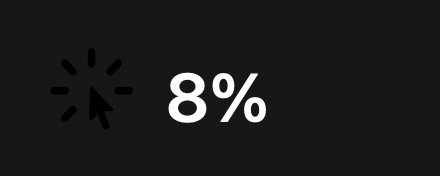
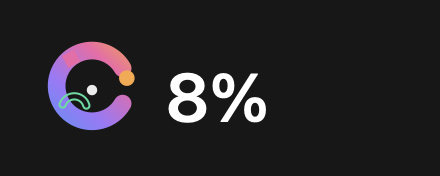
feat(v0.3.0): 抽象派 C 图标 + 设置 toggle + GitHub 描述/CI/Release
- 菜单栏图标: 抽象派风格字母 C(渐变弧+几何点缀) + 用量百分比 (CursorIcon.swift)
- 设置按钮改 toggle: 再点收起(与设置区收起按钮两处入口), 激活态高亮反馈
- GitHub about: 中英双语描述 + topics(swift/macos/menubar/cursor/...)
- 版本维护: VERSION 单源(SemVer), Makefile 注入 Info.plist, make version/package
- CI: .github/workflows/ci.yml (push/PR 构建+plist lint+icns)
- Release: .github/workflows/release.yml (tag v* → zip+dmg → GitHub Release)
- 截图同步: menubar.png 使用新 C 图标; README 更新

Changed region(s): [[0.0886, 0.2273, 0.325, 0.7386]]

diff --git a/Sources/CursorIcon.swift b/Sources/CursorIcon.swift
@@ -1,0 +1,80 @@
+import AppKit
+
+/// 抽象派风格字母 C 图标渲染器（设计空间 100×100，任意尺寸缩放）。
+/// 主形：渐变描边的粗“C”弧（右侧开口）+ 抽象点缀（橙色圆点 / 绿色小弧 / 粉色方块 / 白色圆点）。
+enum CursorIcon {
+
+    static func make(size: CGFloat) -> NSImage {
+        let s = size / 100.0
+        let image = NSImage(size: NSSize(width: size, height: size))
+        image.lockFocus()
+        defer { image.unlockFocus() }
+
+        guard let ctx = NSGraphicsContext.current?.cgContext else { return image }
+        ctx.saveGState()
+        defer { ctx.restoreGState() }
+
+        let center = CGPoint(x: 50 * s, y: 52 * s)
+        let radius = 34 * s
+        let lineWidth = 17 * s
+
+        // ---- 主 C 弧：渐变描边（右侧开口，抽象弧形） ----
+        let arc = CGMutablePath()
+        // 330°(右下) 顺时针扫过 270°(下) 180°(左) 90°(上) 到 30°(右上)，右侧留缺口 → 字母 C
+        arc.addArc(center: center, radius: radius,
+                   startAngle: Self.deg2rad(330), endAngle: Self.deg2rad(30),
+                   clockwise: true)
+        let stroked = arc.copy(strokingWithWidth: lineWidth,
+                               lineCap: .round, lineJoin: .round, miterLimit: 10)
+        ctx.addPath(stroked)
+        ctx.clip()
+
+        let bounds = stroked.boundingBox
+        let colors = [
+            NSColor(calibratedRed: 0.23, green: 0.51, blue: 0.96, alpha: 1).cgColor,   // 蓝
+            NSColor(calibratedRed: 0.55, green: 0.36, blue: 0.98, alpha: 1).cgColor,   // 紫
+            NSColor(calibratedRed: 0.93, green: 0.29, blue: 0.60, alpha: 1).cgColor,   // 粉
+            NSColor(calibratedRed: 0.98, green: 0.59, blue: 0.20, alpha: 1).cgColor,   // 橙
+        ] as CFArray
+        if let gradient = CGGradient(colorsSpace: CGColorSpaceCreateDeviceRGB(),
+                                     colors: colors,
+                                     locations: [0, 0.38, 0.72, 1]) {
+            ctx.drawLinearGradient(gradient,
+                                   start: CGPoint(x: bounds.minX, y: bounds.minY),
+                                   end: CGPoint(x: bounds.maxX, y: bounds.maxY),
+                                   options: [])
+        }
+        ctx.restoreGState()
+
+        // ---- 抽象点缀 ----
+        // 橙色圆点（C 缺口内侧）
+        ctx.setFillColor(NSColor(calibratedRed: 0.98, green: 0.59, blue: 0.20, alpha: 1).cgColor)
+        ctx.fillEllipse(in: CGRect(x: 76 * s, y: 52 * s, width: 15 * s, height: 15 * s))
+
+        // 绿色小弧（左下，向心呼应主弧）
+        let subArc = CGMutablePath()
+        subArc.addArc(center: CGPoint(x: 33 * s, y: 30 * s), radius: 12 * s,
+                      startAngle: Self.deg2rad(15), endAngle: Self.deg2rad(160), clockwise: false)
+        ctx.addPath(subArc.copy(strokingWithWidth: 6 * s, lineCap: .round, lineJoin: .round, miterLimit: 10))
+        ctx.setStrokeColor(NSColor(calibratedRed: 0.20, green: 0.85, blue: 0.55, alpha: 1).cgColor)
+        ctx.strokePath()
+
+        // 粉色旋转方块（左上）
+        ctx.saveGState()
+        ctx.translateBy(x: 30 * s, y: 78 * s)
+        ctx.rotate(by: Self.deg2rad(28))
+        ctx.setFillColor(NSColor(calibratedRed: 0.93, green: 0.29, blue: 0.60, alpha: 1).cgColor)
+        ctx.fill(CGRect(x: -6.5 * s, y: -6.5 * s, width: 13 * s, height: 13 * s))
+        ctx.restoreGState()
+
+        // 白色小圆点（中央偏下）
+        ctx.setFillColor(NSColor.white.withAlphaComponent(0.92).cgColor)
+        ctx.fillEllipse(in: CGRect(x: 45 * s, y: 43 * s, width: 10 * s, height: 10 * s))
+
+        return image
+    }
+
+    private static func deg2rad(_ degrees: CGFloat) -> CGFloat {
+        degrees * .pi / 180
+    }
+}

diff --git a/Sources/Screenshot.swift b/Sources/Screenshot.swift
@@ -115,20 +115,14 @@ enum Screenshot {
         }
     }
 
-    /// 模拟菜单栏条：图标 + 合计百分比
+    /// 模拟菜单栏条：抽象派 C 图标 + 合计百分比
     @MainActor
     private static func renderMenubar(to url: URL, percent: String) -> Bool {
-        var icon = NSImage(systemSymbolName: "cursorarrow.rays", accessibilityDescription: nil)
-        if icon == nil { icon = NSImage(systemSymbolName: "chart.bar.fill", accessibilityDescription: nil) }
-        guard let baseIcon = icon else { return false }
-        let sized = baseIcon.withSymbolConfiguration(
-            NSImage.SymbolConfiguration(pointSize: 30, weight: .medium))!
-
         let img = NSImage(size: NSSize(width: 220, height: 88))
         img.lockFocus()
         NSColor(white: 0.09, alpha: 1).setFill()
         NSRect(x: 0, y: 0, width: 220, height: 88).fill()
-        sized.draw(in: NSRect(x: 22, y: 20, width: 48, height: 48))
+        CursorIcon.make(size: 52).draw(in: NSRect(x: 20, y: 18, width: 52, height: 52))
         let attrs: [NSAttributedString.Key: Any] = [
             .font: NSFont.systemFont(ofSize: 34, weight: .semibold),
             .foregroundColor: NSColor.white,

diff --git a/Sources/AppDelegate.swift b/Sources/AppDelegate.swift
@@ -74,14 +74,10 @@ final class AppDelegate: NSObject, NSApplicationDelegate {
     private func setupStatusItem() {
         let item = NSStatusBar.system.statusItem(withLength: NSStatusItem.variableLength)
         if let button = item.button {
-            var image = NSImage(systemSymbolName: "cursorarrow.rays", accessibilityDescription: "Cursor 用量")
-            if image == nil {
-                image = NSImage(systemSymbolName: "chart.bar.fill", accessibilityDescription: "Cursor 用量")
-            }
-            image?.isTemplate = true
-            let config = NSImage.SymbolConfiguration(pointSize: 14, weight: .medium)
-            image = image?.withSymbolConfiguration(config)
-            button.image = image
+            // 抽象派字母 C + 用量百分比（彩色图标，不设 template 以保留渐变）
+            button.image = CursorIcon.make(size: 17)
+            button.image?.isTemplate = false
+            button.title = ""
             button.action = #selector(togglePanel(_:))
             button.target = self
         }

diff --git a/Sources/UsagePanel.swift b/Sources/UsagePanel.swift
@@ -281,11 +281,12 @@ struct UsagePanelView: View {
             Text(model.lastUpdated.map { "更新于 " + Self.timeText($0) } ?? "未更新")
                 .font(.caption2)
                 .foregroundColor(.secondary)
-            Button(action: { model.openSettings() }) {
-                Image(systemName: "gearshape")
+            Button(action: { model.toggleSettings() }) {
+                Image(systemName: model.showSettings ? "gearshape.fill" : "gearshape")
+                    .foregroundColor(model.showSettings ? .accentColor : .primary)
             }
             .controlSize(.small)
-            .help("Token 设置")
+            .help(model.showSettings ? "收起设置" : "Token 设置")
             Button(action: { NSApplication.shared.terminate(nil) }) {
                 Image(systemName: "power")
             }

diff --git a/Sources/PanelModel.swift b/Sources/PanelModel.swift
@@ -195,6 +195,16 @@ final class PanelModel: ObservableObject {
         log("设置: 展开设置区")
     }
 
+    /// 设置按钮 toggle：展开/收起（与设置区内的收起按钮构成两处收起入口）
+    func toggleSettings() {
+        if showSettings {
+            showSettings = false
+            log("设置: 收起设置区（gear 按钮）")
+        } else {
+            openSettings()
+        }
+    }
+
     func saveManualToken() {
         let t = settingsToken.trimmingCharacters(in: .whitespacesAndNewlines)
         guard !t.isEmpty else {

diff --git a/README.md b/README.md
@@ -25,13 +25,13 @@ Click the menu bar icon to see your current billing-cycle usage at a glance — 
 
 | English | 中文 |
 |---|---|
-| 🟦 **Menu bar resident** — no Dock icon (`LSUIElement`), shows live total usage % next to the icon | 🟦 **菜单栏常驻**——无 Dock 图标，图标旁实时显示合计用量百分比 |
+| 🟦 **Menu bar resident** — abstract-art letter **C** icon + live total usage %, no Dock icon (`LSUIElement`) | 🟦 **菜单栏常驻**——抽象派字母 **C** 图标 + 实时合计用量百分比，无 Dock 图标 |
 | ⚖ **Two pools side by side**: Cursor Models (`autoPercentUsed`) and Other Models (`apiPercentUsed`), each with **exact dollar spend** derived from `GetAggregatedUsageEvents` (verified: sum == `planUsage.totalSpend`) | ⚖ **双池并列展示**：Cursor Models（`autoPercentUsed`）与 Other Models（`apiPercentUsed`），各池**精确美元花费**由 `GetAggregatedUsageEvents` 按模型归属求和（实测合计 == `totalSpend`） |
 | 💰 **Included total** — used / limit / remaining in USD (cents ÷ 100) + combined % | 💰 **合计用量**——已用 / 限额 / 剩余美元金额 + 综合百分比 |
 | 🏆 **Top models by spend** (top 3) | 🏆 **Top 模型**（按花费前 3） |
 | 📅 **Billing cycle** start → end, "resets in N days" | 📅 **计费周期**起止与“N 天后重置” |
 | 🔄 **Auto refresh** — on open, every 60 s while open, every 5 min in background | 🔄 **自动刷新**——打开即拉取、打开期间每 60 s、后台每 5 min |
-| 🔐 **Token settings** — save to **macOS Keychain**, or auto-read Cursor's local login (default), never stored in this repo | 🔐 **Token 设置**——保存到 **macOS 钥匙串**，或自动读取 Cursor 本地登录态（默认），绝不写入仓库 |
+| 🔐 **Token settings** — save to **macOS Keychain**; ⚙ toggles open/close (two collapse entries), or auto-read Cursor's local login (default), never stored in this repo | 🔐 **Token 设置**——保存到 **macOS 钥匙串**；⚙ 可展开/收起（两处收起入口），或自动读取 Cursor 本地登录态（默认），绝不写入仓库 |
 | 🛡 **Zero dependencies** — pure Swift (AppKit + SwiftUI), no Electron, no runtime deps | 🛡 **零依赖**——纯 Swift（AppKit + SwiftUI），无 Electron、无运行时依赖 |
 
 ---
@@ -51,8 +51,10 @@ make selfcheck   # headless check: token + real API + keychain/file stores
 
 | Command · 命令 | What it does · 作用 |
 |---|---|
-| `make build` | Compile `build/CursorUsage` |
+| `make build` | Compile `build/CursorUsage` + generate `Info.plist` from `VERSION` |
+| `make version` | Show current version / build number / tag |
 | `make app` | Bundle `build/CursorUsage.app` (with generated icon) |
+| `make package` | Build **zip + dmg** release artifacts (`build/CursorUsage-<ver>-macOS.*`) |
 | `make selfcheck` | Headless verification with **real** API calls |
 | `make screenshots` | Render product screenshots to `docs/screenshots/` |
 | `make run` | Build & launch via `open` |
@@ -60,6 +62,13 @@ make selfcheck   # headless check: token + real API + keychain/file stores
 
 To quit: click the power button at the panel bottom, or `pkill CursorUsage`.
 退出：点面板底部电源键，或 `pkill CursorUsage`。
+
+### Releases · 版本与发布
+
+- **Version source of truth · 版本单一来源**：`VERSION` file (SemVer) — bump it, CI builds with it.
+- **CI** (`.github/workflows/ci.yml`): builds on every push/PR (macOS runner).
+- **Release** (`.github/workflows/release.yml`): pushing a tag `v*` builds the app, packages **zip + dmg**, and creates a GitHub Release (e.g. `git tag v0.3.0 && git push origin v0.3.0`).
+- Artifacts are **ad-hoc signed** (not notarized); first launch may need right-click → Open. 产物为 ad-hoc 签名，首次打开可能需要右键 → 打开。
 
 ---
 
@@ -111,17 +120,20 @@ Design & architecture → [DESIGN.md](DESIGN.md) · 实现方案见 [DESIGN.md](
 ## Project Structure · 项目结构
 
 ```
-Sources/main.swift        entry: --selfcheck / --screenshot / --icon / --icns / GUI
-Sources/AppDelegate.swift status bar icon + popover + timers
-Sources/CursorAPI.swift   Connect JSON client + Codable models
-Sources/TokenStore.swift  Keychain / 600-perm file / Cursor local (read-only)
-Sources/PanelModel.swift  panel state machine (@MainActor)
-Sources/UsagePanel.swift  SwiftUI panel (two-pool meters + settings)
-Sources/Screenshot.swift  product screenshots + app icon generator
-Sources/SelfCheck.swift   headless verification
-Sources/Info.plist        .app bundle config (LSUIElement)
-Makefile / run.sh         build · test · package · launch
-docs/screenshots/         product screenshots
+Sources/main.swift          entry: --selfcheck / --screenshot / --icon / --icns / GUI
+Sources/AppDelegate.swift   status bar icon + self-positioned panel + timers
+Sources/CursorIcon.swift    abstract-art letter-C status icon renderer
+Sources/CursorAPI.swift     Connect JSON client + Codable models
+Sources/TokenStore.swift    Keychain / 600-perm file / Cursor local (read-only)
+Sources/PanelModel.swift    panel state machine (@MainActor) + pool dollar split
+Sources/UsagePanel.swift    SwiftUI panel (two-pool meters + toggleable settings)
+Sources/Screenshot.swift    product screenshots + app icon generator
+Sources/SelfCheck.swift     headless verification
+Sources/Info.plist.template .app bundle config (version injected from VERSION)
+VERSION                     version source of truth (SemVer)
+.github/workflows/          CI + Release (zip/dmg) workflows
+Makefile / run.sh           build · test · package · launch
+docs/screenshots/           product screenshots
 ```
 
 ## License · 许可

diff --git a/.github/RELEASE_NOTES.md b/.github/RELEASE_NOTES.md
@@ -1,0 +1,24 @@
+# CursorUsage v0.3.0
+
+## What's new · 更新内容
+
+- 🎨 菜单栏图标改为抽象派风格字母 **C** + 实时用量百分比（渐变弧 + 几何点缀）
+- ⚙ 设置按钮改为 **toggle**：再次点击即收起设置（与设置区内收起按钮共两处入口），并带激活态高亮
+- 🔧 修复：面板一直转圈（主队列饥饿 / URLSession 释放 / 次要请求阻塞）
+- 📍 修复：面板远离菜单栏（自定位 NSPanel，内容变化自动重排）
+- ✅ 设置无反馈修复（任何状态下都可展开设置）
+- 🛠 工程化：GitHub Actions CI + Release 自动打包（zip / dmg），VERSION 单源版本维护
+
+## Install · 安装
+
+- Download `CursorUsage-<ver>-macOS.zip` (or `.dmg`), unzip, and move `CursorUsage.app` to `/Applications`.
+- 下载 zip/dmg，解压后把 `CursorUsage.app` 拖入「应用程序」。
+
+> ⚠ The app is **ad-hoc signed** (local build, not notarized). On first launch, right-click the app → **Open**, or run
+> `xattr -dr com.apple.quarantine /Applications/CursorUsage.app` in Terminal if Gatekeeper blocks it.
+> 应用为 ad-hoc 签名（未公证）。首次打开如被 Gatekeeper 拦截：右键应用 →「打开」，或终端执行 `xattr -dr com.apple.quarantine /Applications/CursorUsage.app`。
+
+## Notes · 说明
+
+- Unofficial tool, not affiliated with Cursor. API is reverse-engineered and may change. 非官方工具，接口可能随时变化。
+- Token 只保存在本机钥匙串（或 600 权限本地文件），绝不入仓库/上传。
